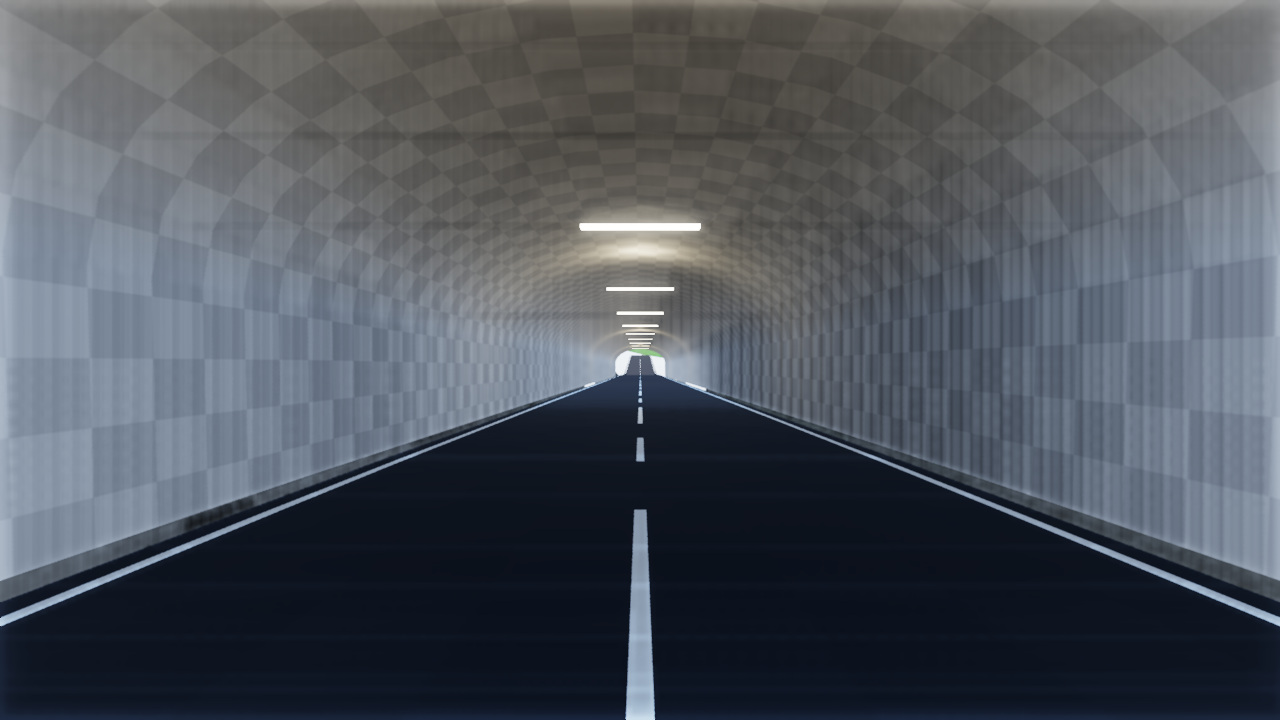
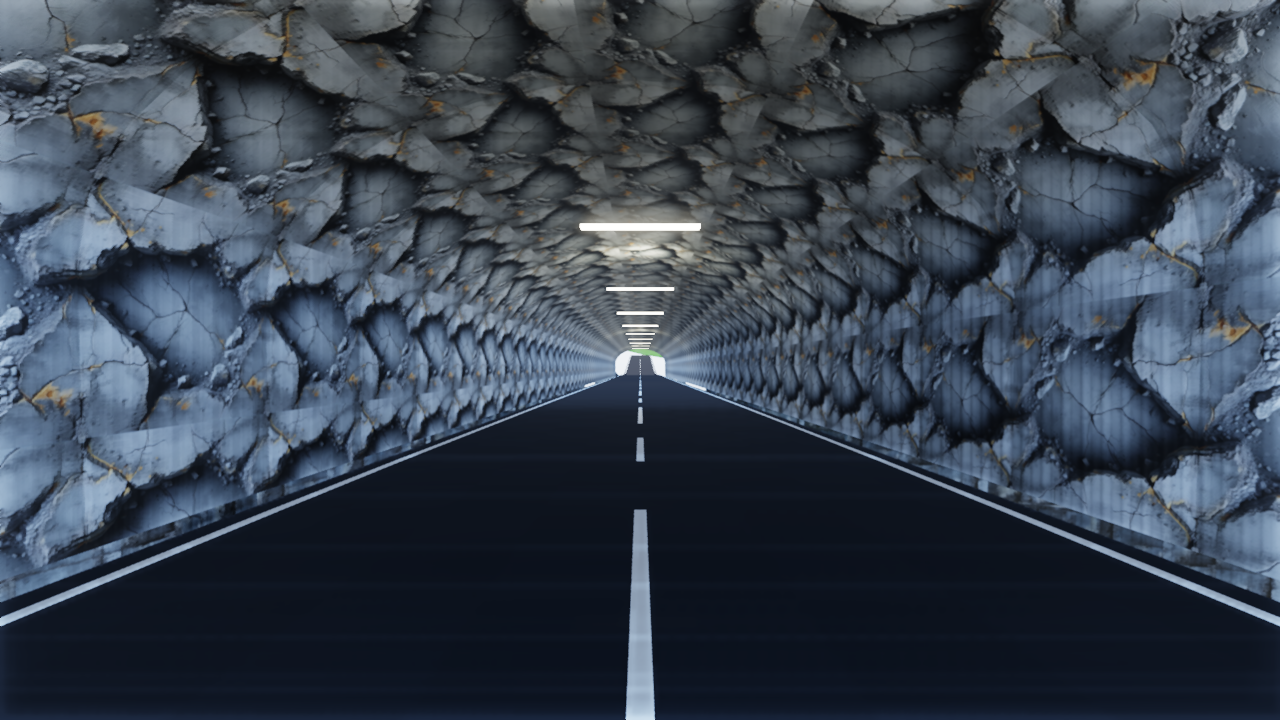
art(tunnel): dress the bore + portals from real surface_library sets
The demo booted on procedural CHECKERS ("so it stands up on a bare
checkout"). assets/surface_library is now fetched and real, so the two
concrete surfaces the player actually looks at are wired to authored PBR
sets (albedo + normal + mr). The checkers stay as the bare-checkout
fallback and are still what renders if the sets are missing.

  BORE LINING  -> cv_shotcrete_break. A road bore is lined with shotcrete,
    so this is the literally-correct material rather than a lookalike. It
    is also the ONLY concrete-family set in the library shipping a real
    multi-channel mr map (589 KB of roughness variation; sr_concrete_01,
    sr_concrete_a, cc_porous_cement and both mw_concrete_panels sets all
    ship an 8x8 constant) -- which matters for the one surface the player
    is inside for 300 m under six point lights.
  PORTAL HEADWALLS -> mw_concrete_panels_a. A headwall is cast in
    formwork; this set carries panel joints and form-tie holes. A
    DIFFERENT set from the bore on purpose -- the portal is a different
    pour, and reading them as one material is what made the old checker
    slab look pasted on.
  NOT sr_concrete_01: that set is already the terrain splat's ROCK layer
    (terrain.cpp makeGroundTexture), so using it here would make the
    concrete and the rock cutting the same surface and erase the portal.
  NOT the ROAD: there is no asphalt set in the library (sr_rubberfloor is
    studded rubber matting, cc_porous_cement is a pale cement), so the
[…]

diff --git a/app/tunnel_corridor.cpp b/app/tunnel_corridor.cpp
@@ -4,6 +4,7 @@
 // §2.2/§2.3/§3.2/§3.3/§4.3/§4.4 and re-implemented here from first principles.
 #include "tunnel_corridor.h"
 #include "mesh_prims.h"
+#include "asset_root.h"        // assetRoot() — the surface_library mount point
 
 #include "engine/core/x3_log.h"
 
@@ -264,7 +265,7 @@ void emitPortalFace(MeshBuf& mb, const float origin[3], const float right[3],
 
 // Upload one buffer as a Scene entity (+ optional static collision).
 struct Material {
-    x3::rhi::TextureHandle alb, mr;
+    x3::rhi::TextureHandle alb, mr, nrm;
     float tint[4] = { 1, 1, 1, 1 };
     float emissive[4] = { 0, 0, 0, 0 };
 };
@@ -508,6 +509,43 @@ bool TunnelCorridorWorld::build(Scene& scene, x3::rhi::IRenderDevice& device,
     const x3::rhi::TextureHandle roughMR     = solid1(0, 235, 0, false);   // rough 0.92, metal 0
     const x3::rhi::TextureHandle wallMR      = solid1(0, 205, 0, false);   // rough 0.80, metal 0
 
+    // ---- REAL ART. The two checkers above are the BARE-CHECKOUT FALLBACK and
+    // nothing more; when assets/surface_library is present the concrete is
+    // dressed from authored PBR sets (albedo + normal + mr) instead.
+    //
+    //   BORE LINING -> cv_shotcrete_break. A road bore is lined with SHOTCRETE
+    //     — sprayed concrete straight onto the excavated face — so this is the
+    //     literally-correct material, not a lookalike. It is also the only
+    //     concrete-family set in the library that ships a REAL multi-channel mr
+    //     map (589 KB of actual roughness variation; sr_concrete_01,
+    //     sr_concrete_a, cc_porous_cement and both mw_concrete_panels sets all
+    //     ship an 8x8 constant), which matters here because the bore is the one
+    //     surface the player is inside for 300 m under six point lights. And its
+    //     value sits well under the placeholder's near-white 188/183/175, which
+    //     is what was blowing the interior out to a white tube.
+    //
+    //   PORTAL HEADWALLS -> mw_concrete_panels_a. A headwall is CAST IN
+    //     FORMWORK, and this set carries the signature of exactly that: panel
+    //     joints and form-tie holes on a ~2.5 m grid. Deliberately a DIFFERENT
+    //     set from the bore, because the portal is a different pour from the
+    //     lining and reading them as one continuous material is what made the
+    //     old checker slab look pasted on.
+    //
+    //   Neither is sr_concrete_01 — that set is already the terrain splat's ROCK
+    //     layer (terrain.cpp makeGroundTexture), so using it here would make the
+    //     concrete and the rock cutting the same surface and erase the portal.
+    //
+    //   NOT WIRED, and honestly: the ROAD. There is no asphalt set in the
+    //     library (sr_rubberfloor is studded rubber matting, cc_porous_cement is
+    //     a pale cement), so the ribbon keeps its procedural low-contrast dark
+    //     checker rather than being dressed in something that is not asphalt.
+    m_surf.mount(x3::game::assetRoot() + "/surface_library");
+    const SurfaceSet& boreSet   = m_surf.get(device, "cv_shotcrete_break");
+    const SurfaceSet& portalSet = m_surf.get(device, "mw_concrete_panels_a");
+    if (!boreSet.ok || !portalSet.ok)
+        x3::logWarn("tunnel corridor: surface_library set(s) unavailable — "
+                    "falling back to the procedural checker concrete");
+
     auto upload = [&](MeshBuf& mb, const Material& mat, bool collide) {
         if (mb.empty()) return;
         fixWinding(mb);
@@ -515,8 +553,9 @@ bool TunnelCorridorWorld::build(Scene& scene, x3::rhi::IRenderDevice& device,
         e.mesh = device.createMesh(mb.v.data(), (uint32_t)mb.v.size(),
                                    mb.i.data(), (uint32_t)mb.i.size());
         if (e.mesh.valid()) m_meshes.push_back(e.mesh);
-        e.tex   = mat.alb;
-        e.mrTex = mat.mr;
+        e.tex       = mat.alb;
+        e.mrTex     = mat.mr;
+        e.normalTex = mat.nrm;
         for (int k = 0; k < 4; ++k) { e.baseColor[k] = mat.tint[k]; e.emissive[k] = mat.emissive[k]; }
         e.tag = (uint32_t)Tag::Static;
         if (collide) {
@@ -637,9 +676,18 @@ bool TunnelCorridorWorld::build(Scene& scene, x3::rhi::IRenderDevice& device,
         if (bf.back().s < s1 - 0.01f) bf.push_back(frameAt(s1));
 
         MeshBuf shell;
-        emitSweep(shell, bf, right, inner, -1.0f, 0.14f);   // drivable bore surface
-        emitSweep(shell, bf, right, outer, +1.0f, 0.14f);   // buried outer skin
-        Material sm; sm.alb = concreteTex; sm.mr = wallMR;
+        // TEXEL DENSITY. 0.14 (one tile per 7.1 m) was set for the procedural
+        // checker, where tile size is arbitrary. On a real 2K shotcrete albedo it
+        // is wrong by about 2x: the set's largest crack spans half the tile, so at
+        // 7.1 m it draws a 3.5 m fissure and the bore reads as a collapsed cavern
+        // rather than a lined tunnel. 0.30 (one tile per 3.3 m) puts that same
+        // crack at ~1.6 m — shotcrete crazing at the scale a driver would see it.
+        const float kBoreUV = boreSet.ok ? 0.30f : 0.14f;
+        emitSweep(shell, bf, right, inner, -1.0f, kBoreUV);   // drivable bore surface
+        emitSweep(shell, bf, right, outer, +1.0f, kBoreUV);   // buried outer skin
+        Material sm;
+        if (boreSet.ok) { sm.alb = boreSet.albedo; sm.mr = boreSet.mr; sm.nrm = boreSet.normal; }
+        else            { sm.alb = concreteTex;    sm.mr = wallMR; }
         upload(shell, sm, /*collide*/true);
 
         // ---- Portal headwalls. The corridor's depth step leaves a real earth
@@ -699,8 +747,18 @@ bool TunnelCorridorWorld::build(Scene& scene, x3::rhi::IRenderDevice& device,
                     portals.quad(a, b, c, d, n, 0, 1, 0, 1);
                 }
             }
-            Material pm; pm.alb = concreteTex; pm.mr = wallMR;
-            pm.tint[0] = 0.86f; pm.tint[1] = 0.86f; pm.tint[2] = 0.84f;
+            Material pm;
+            if (portalSet.ok) {
+                pm.alb = portalSet.albedo; pm.mr = portalSet.mr; pm.nrm = portalSet.normal;
+                // valueTint() is the library's own reflectance-band correction
+                // (surface_library.h): a set already in band returns exactly 1.0,
+                // so a correctly-authored headwall is untouched.
+                const float v = portalSet.valueTint();
+                pm.tint[0] = pm.tint[1] = pm.tint[2] = v;
+            } else {
+                pm.alb = concreteTex; pm.mr = wallMR;
+                pm.tint[0] = 0.86f; pm.tint[1] = 0.86f; pm.tint[2] = 0.84f;
+            }
             upload(portals, pm, /*collide*/true);
         }
 
@@ -783,6 +841,7 @@ void TunnelCorridorWorld::shutdown(x3::rhi::IRenderDevice& device, x3::phys::IPh
     m_meshes.clear();
     for (auto t : m_textures) device.destroyTexture(t);
     m_textures.clear();
+    m_surf.destroyAll(device);   // the library owns the bore/portal set textures
     m_lights.clear();
 }
 

diff --git a/app/tunnel_corridor.h b/app/tunnel_corridor.h
@@ -46,6 +46,7 @@
 
 #include "scene.h"
 #include "terrain.h"
+#include "surface_library.h"   // real PBR bore-lining / portal sets (albedo+normal+mr)
 
 #include "engine/rhi/IRenderDevice.h"
 #include "engine/physics/IPhysicsWorld.h"
@@ -167,6 +168,12 @@ private:
     std::vector<x3::rhi::TextureHandle> m_textures;
     std::vector<x3::phys::BodyId>       m_bodies;
     std::vector<x3::rhi::PointLight>    m_lights;
+    // REAL ART. The bore lining and the portal headwalls are dressed from
+    // assets/surface_library sets (albedo + normal + mr), not the procedural
+    // checkers this demo booted on — see build() for which sets and why. The
+    // LIBRARY owns those textures; m_textures holds only the ones this class
+    // created itself, so shutdown() has to release both.
+    SurfaceLibrary                      m_surf;
     uint32_t m_entities = 0;
 };
 
